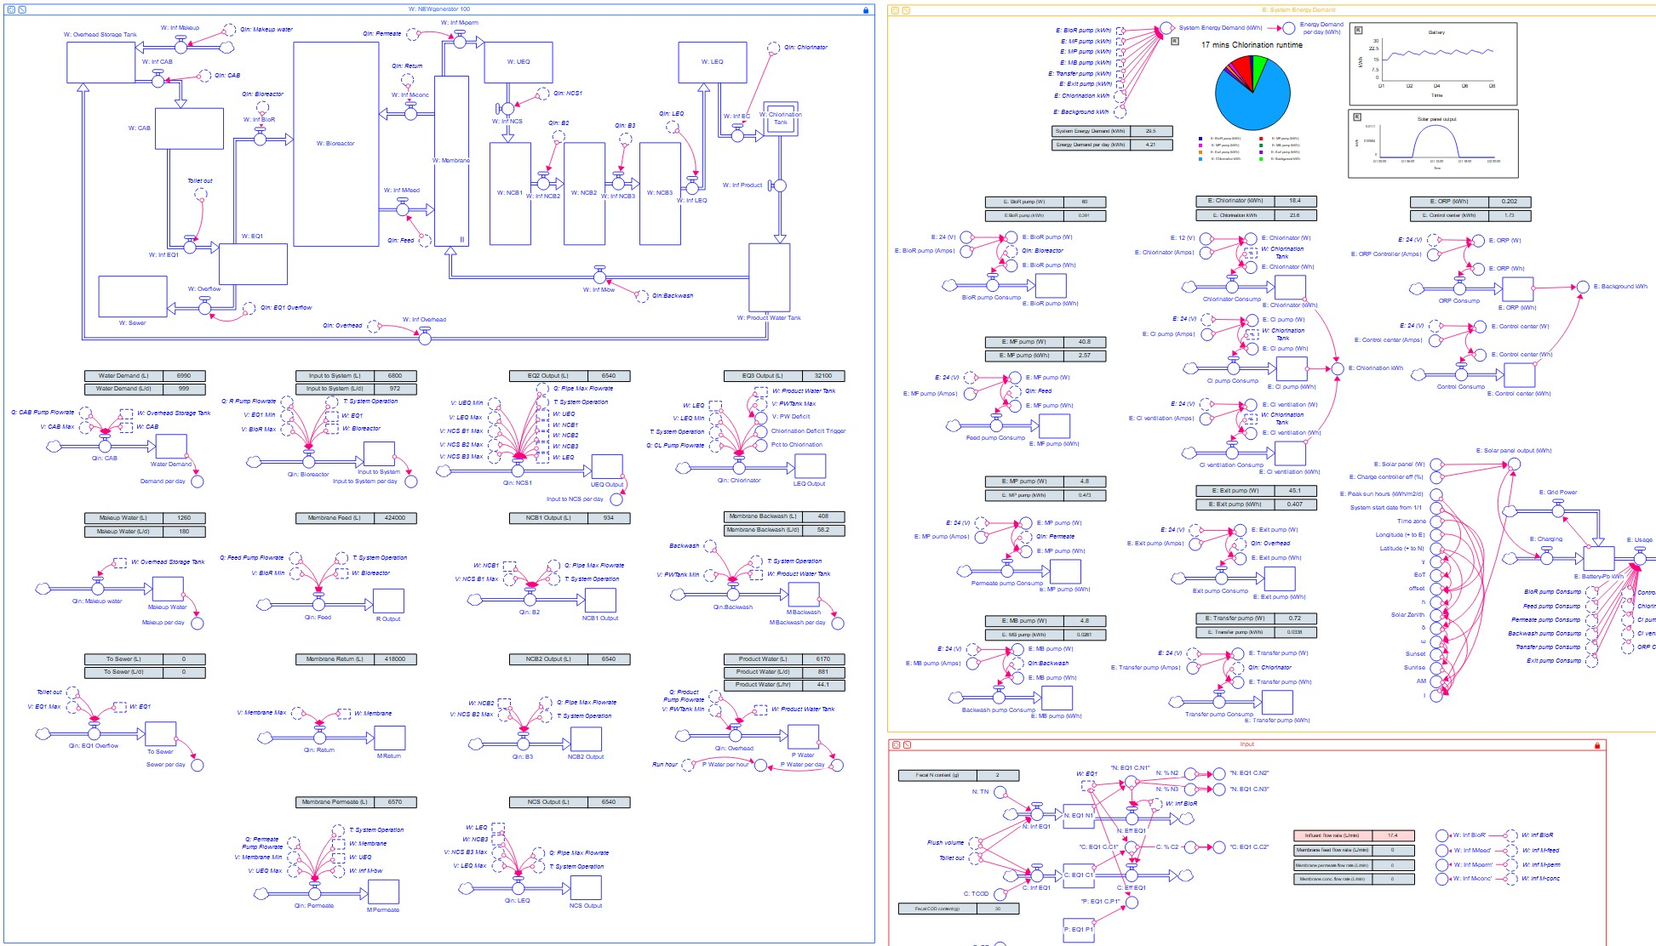
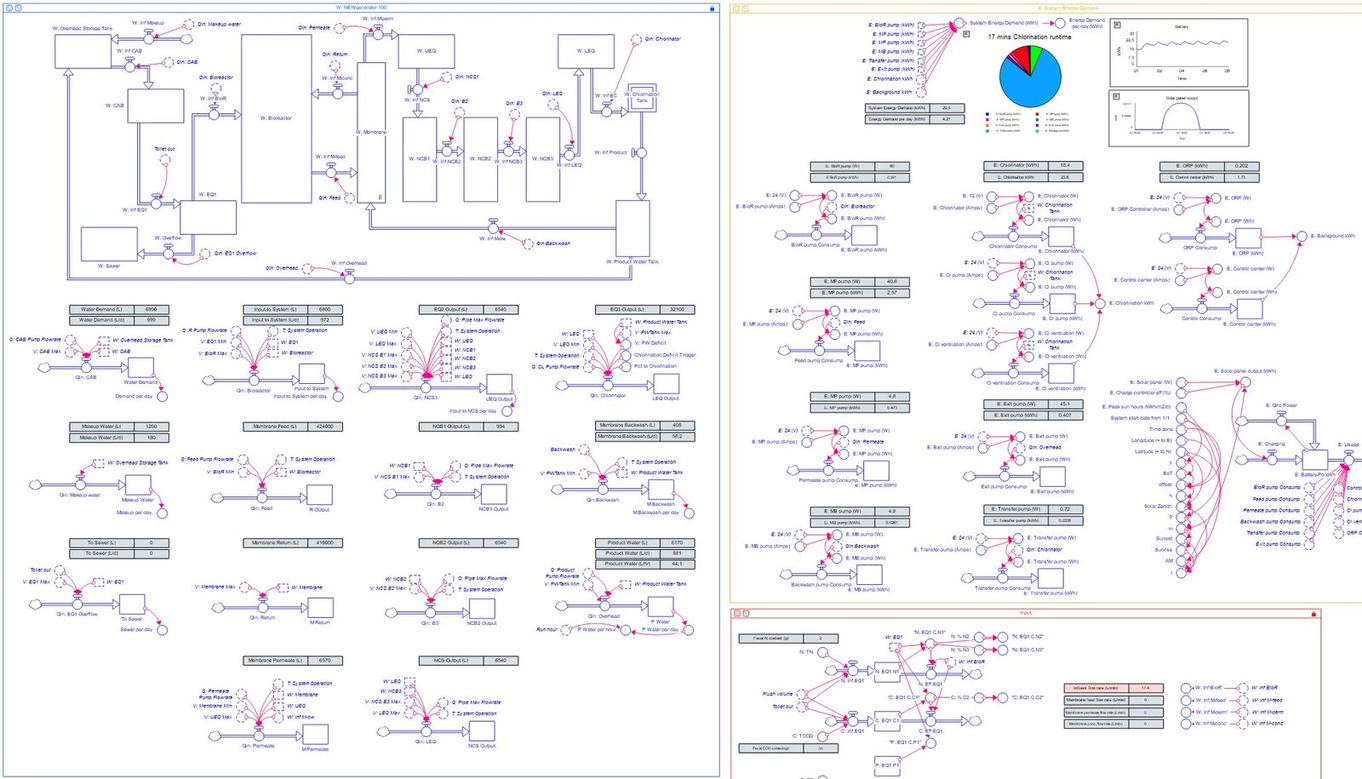
Update homepage: Honu Hub postdoc work, news, image optimization, nav fix
- Home: rewrite About Me for current postdoc (Honu Hub) and PhD work
- Research: add Honu Hub section with photo; ground ML text in paper results
- News: add Aug 2024 postdoc start, Honu Hub feature, Dec 2025 paper
- Degree name: Environmental Engineering throughout
- Publications: mark VeriXiv preprint, fix journal capitalization
- Rename Twitter link to X (Font Awesome 6.5.1)
- Compress images (~15 MB to ~1.7 MB) and load them via relative paths
- Fix active-page highlight in navigation

Claude-Session: https://claude.ai/code/session_01TAbFmTHqS2GZAGv8WWzyr7

diff --git a/Research/index.html b/Research/index.html
@@ -7,7 +7,7 @@
     <meta name="description" content="Research by Hsiang-Yang (Gary) Shyu — onsite wastewater treatment, nutrient management, system dynamics modeling, and machine learning for water quality.">
     <title>Research | Hsiang-Yang (Gary) Shyu</title>
     <link rel="stylesheet" href="../styles.css">
-    <link rel="stylesheet" href="https://cdnjs.cloudflare.com/ajax/libs/font-awesome/6.4.0/css/all.min.css">
+    <link rel="stylesheet" href="https://cdnjs.cloudflare.com/ajax/libs/font-awesome/6.5.1/css/all.min.css">
     <link rel="stylesheet" href="https://cdn.jsdelivr.net/gh/jpswalsh/academicons/css/academicons.min.css">
 </head>
 
@@ -30,7 +30,7 @@
         <main>
             <aside class="left-side">
                 <div class="profile-card">
-                    <img src="https://raw.githubusercontent.com/gary830529/Homepage/main/Figures/headshot2.jpg" alt="Hsiang-Yang Gary Shyu Profile Photo" class="profile-pic">
+                    <img src="../Figures/headshot2.jpg" alt="Hsiang-Yang Gary Shyu Profile Photo" class="profile-pic">
                     <h3>Postdoctoral Researcher</h3>
                     <p>USF Civil &amp; Environmental Engineering</p>
 
@@ -42,7 +42,7 @@
                             <li><i class="fab fa-linkedin" style="color: #0077B5"></i><a href="https://www.linkedin.com/in/hsiangyang-888641158" target="_blank" rel="noopener noreferrer">LinkedIn</a></li>
                             <li><i class="ai ai-google-scholar-square" style="color: #4285F4"></i><a href="https://scholar.google.com/citations?user=e8Inw1wAAAAJ&hl=en" target="_blank" rel="noopener noreferrer">Google Scholar</a></li>
                             <li><i class="fab fa-github" style="color: #6cc644"></i><a href="https://github.com/gary830529" target="_blank" rel="noopener noreferrer">GitHub</a></li>
-                            <li><i class="fab fa-twitter" style="color: #00acee"></i><a href="https://twitter.com/GaryShyu0529" target="_blank" rel="noopener noreferrer">Twitter</a></li>
+                            <li><i class="fab fa-x-twitter" style="color: #000000"></i><a href="https://x.com/GaryShyu0529" target="_blank" rel="noopener noreferrer">X</a></li>
                         </ul>
                     </address>
                 </div>
@@ -52,7 +52,15 @@
                 <div class="research-container">
 
                     <article class="research-section">
-                        <img src="https://raw.githubusercontent.com/gary830529/Homepage/main/Figures/NG_ToC.jpg" alt="NEWgenerator system diagram">
+                        <img src="../Figures/Honu_Hub.jpg" alt="Honu Hub onsite wastewater recycling system with doors open, showing the treatment tank and control panel">
+                        <div class="content-container">
+                            <h2>Honu Hub: Smart Onsite Water Recycling</h2>
+                            <p>The <strong>Honu Hub</strong> is a solar-powered, off-grid onsite wastewater recycling system with nitrogen removal, automation, and remote monitoring, designed for island communities. I built its data logging, remote monitoring, and control system: a <strong>Raspberry Pi</strong> logs data and serves as a custom HMI for the <strong>PLC</strong>, with secure real-time remote access for troubleshooting. Monitoring transmembrane pressure and flux in real time lets us adjust membrane backwash before fouling becomes permanent. I am now integrating machine learning into the system's design and monitoring. <a href="https://www.usf.edu/engineering/news/2025/usf-engineering-research-team-tackles-americas-hidden-sanitation-crisis-with-breakthrough-wastewater-technology.aspx" target="_blank" rel="noopener noreferrer">USF Engineering story</a>.</p>
+                        </div>
+                    </article>
+
+                    <article class="research-section">
+                        <img src="../Figures/NG_ToC.jpg" alt="NEWgenerator system diagram">
                         <div class="content-container">
                             <h2>Onsite Wastewater Treatment &amp; Sanitation</h2>
                             <p>The <strong>NEWgenerator™</strong> is an advanced non-sewered sanitation system featuring an anaerobic membrane bioreactor (AnMBR), nutrient capture, and electrochlorination. Our field testing in Durban, South Africa, proved its resilience and efficacy in resource recovery, turning high-strength wastewater into a source for non-potable reuse.</p>
@@ -60,7 +68,7 @@
                     </article>
 
                     <article class="research-section">
-                        <img src="https://raw.githubusercontent.com/gary830529/Homepage/main/Figures/Z_Pic.jpg" alt="Zeolite nutrient recovery process">
+                        <img src="../Figures/Z_Pic.jpg" alt="Zeolite nutrient recovery process">
                         <div class="content-container">
                             <h2>Sustainable Nutrients Management</h2>
                             <p>My research explores nitrogen and phosphorus recovery using modified clinoptilolite zeolite. By optimizing zeolite regeneration in the field, we transition wastewater treatment from a disposal problem to a circular economy solution, creating nutrient-rich fertilizers for local use.</p>
@@ -68,7 +76,7 @@
                     </article>
 
                     <article class="research-section">
-                        <img src="https://raw.githubusercontent.com/gary830529/Homepage/main/Figures/STELLA_Pic.jpg" alt="System Dynamics Model interface">
+                        <img src="../Figures/STELLA_Pic.jpg" alt="System Dynamics Model interface">
                         <div class="content-container">
                             <h2>System Dynamics Modeling</h2>
                             <p>Using <strong>Stella® Architect</strong>, I develop intricate models to optimize the water-energy-nutrient nexus within the NEWgenerator™. These scenario-based evaluations are critical for scaling decentralized sanitation systems across diverse global environments.</p>
@@ -76,10 +84,10 @@
                     </article>
 
                     <article class="research-section">
-                        <img src="https://raw.githubusercontent.com/gary830529/Homepage/main/Figures/ML_ToC.jpg" alt="Machine learning water quality prediction graph">
+                        <img src="../Figures/ML_ToC.jpg" alt="Machine learning water quality prediction graph">
                         <div class="content-container">
                             <h2>Machine Learning for OWTS Monitoring</h2>
-                            <p>I leverage machine learning to develop <strong>soft sensors</strong> for real-time water quality assessment. By training models on in-line sensor data, we can predict complex parameters instantly, ensuring environmental compliance without the lag of traditional laboratory analysis.</p>
+                            <p>I develop machine learning <strong>soft sensors</strong> for real-time water quality assessment. Trained on two years of field data from in-line sensors, our models predicted COD (R² = 0.96) and TSS (R² = 0.99), reducing reliance on slow laboratory analysis. <a href="https://doi.org/10.1021/acsenvironau.2c00072" target="_blank" rel="noopener noreferrer">Paper</a> · <a href="https://github.com/gary830529/MLsensor" target="_blank" rel="noopener noreferrer">Code</a>.</p>
                         </div>
                     </article>
 
@@ -92,9 +100,9 @@
         </footer>
     </div>
     <script>
-        const path = window.location.pathname;
+        const here = location.pathname.replace(/index\.html$/, '');
         document.querySelectorAll('nav a').forEach(a => {
-            if (a.getAttribute('href') === path) a.classList.add('active');
+            if (new URL(a.href, location.href).pathname === here) a.classList.add('active');
         });
     </script>
 </body>

diff --git a/index.html b/index.html
@@ -7,7 +7,7 @@
     <meta name="description" content="Hsiang-Yang (Gary) Shyu, Ph.D. — Postdoctoral Researcher at USF studying wastewater treatment, nutrient recovery, and machine learning for water quality monitoring.">
     <title>Hsiang-Yang (Gary) Shyu | USF Researcher</title>
     <link rel="stylesheet" href="styles.css">
-    <link rel="stylesheet" href="https://cdnjs.cloudflare.com/ajax/libs/font-awesome/6.4.0/css/all.min.css">
+    <link rel="stylesheet" href="https://cdnjs.cloudflare.com/ajax/libs/font-awesome/6.5.1/css/all.min.css">
     <link rel="stylesheet" href="https://cdn.jsdelivr.net/gh/jpswalsh/academicons/css/academicons.min.css">
 </head>
 
@@ -30,7 +30,7 @@
         <main>
             <aside class="left-side">
                 <div class="profile-card">
-                    <img src="https://raw.githubusercontent.com/gary830529/Homepage/main/Figures/headshot2.jpg" alt="Hsiang-Yang Gary Shyu Profile Photo" class="profile-pic">
+                    <img src="Figures/headshot2.jpg" alt="Hsiang-Yang Gary Shyu Profile Photo" class="profile-pic">
                     <h3>Postdoctoral Researcher</h3>
                     <p>USF Civil &amp; Environmental Engineering</p>
 
@@ -60,8 +60,8 @@
                                 <a href="https://github.com/gary830529" target="_blank" rel="noopener noreferrer">GitHub</a>
                             </li>
                             <li>
-                                <i class="fab fa-twitter" style="color: #00acee"></i>
-                                <a href="https://twitter.com/GaryShyu0529" target="_blank" rel="noopener noreferrer">Twitter</a>
+                                <i class="fab fa-x-twitter" style="color: #000000"></i>
+                                <a href="https://x.com/GaryShyu0529" target="_blank" rel="noopener noreferrer">X</a>
                             </li>
                         </ul>
                     </address>
@@ -78,17 +78,22 @@
                     </p>
 
                     <p>
-                        Our research focuses on advanced wastewater treatment for non-sewered sanitation. I lead efforts within the
-                        <a href="https://www.youtube.com/watch?v=v5pW_Mqt6dU" target="_blank" rel="noopener noreferrer">NEWgenerator™</a>
-                        project—an innovative system that transforms wastewater into <strong>clean water, nutrients, and energy</strong>.
+                        My work sits at the intersection of <strong>wastewater process engineering</strong> and <strong>machine learning</strong>.
+                        As a postdoc, I contribute to the
+                        <a href="https://gary830529.github.io/Homepage/Research/">Honu Hub</a>, a solar-powered onsite wastewater recycling system,
+                        where I built its data logging, remote monitoring, and control system and am integrating AI into its design and monitoring.
                     </p>
 
                     <p>
-                        My expertise involves membrane-based separation, nutrient recycling adsorbents, and the integration of <strong>machine learning</strong> to develop soft sensors for real-time water quality monitoring.
+                        During my Ph.D., I led the field evaluation of the
+                        <a href="https://www.youtube.com/watch?v=v5pW_Mqt6dU" target="_blank" rel="noopener noreferrer">NEWgenerator™</a>,
+                        a non-sewered sanitation system that recovers <strong>clean water, nutrients, and energy</strong> from wastewater, and developed
+                        machine learning <strong>soft sensors</strong> for real-time water quality monitoring. My expertise also includes membrane-based separation,
+                        nutrient recovery with advanced adsorbents, and dynamic process modeling.
                     </p>
 
                     <p>
-                        I earned my Ph.D. in Civil and Environmental Engineering from USF in 2024. I am honored to be the 14<sup>th</sup> doctoral graduate from the Membrane Biotechnology Lab!
+                        I earned my Ph.D. in Environmental Engineering from USF in 2024. I am honored to be the 14<sup>th</sup> doctoral graduate from the Membrane Biotechnology Lab!
                     </p>
 
                     <p>
@@ -106,11 +111,9 @@
         </footer>
     </div>
     <script>
-        const path = window.location.pathname;
+        const here = location.pathname.replace(/index\.html$/, '');
         document.querySelectorAll('nav a').forEach(a => {
-            if (a.getAttribute('href') === path || (path === '/' && a.getAttribute('href').endsWith('/Homepage/'))) {
-                a.classList.add('active');
-            }
+            if (new URL(a.href, location.href).pathname === here) a.classList.add('active');
         });
     </script>
 </body>

diff --git a/Publications/index.html b/Publications/index.html
@@ -7,7 +7,7 @@
     <meta name="description" content="Publications and conference presentations by Hsiang-Yang (Gary) Shyu — journal articles, dissertations, and selected talks.">
     <title>Publications & Presentations | Hsiang-Yang (Gary) Shyu</title>
     <link rel="stylesheet" href="../styles.css">
-    <link rel="stylesheet" href="https://cdnjs.cloudflare.com/ajax/libs/font-awesome/6.4.0/css/all.min.css">
+    <link rel="stylesheet" href="https://cdnjs.cloudflare.com/ajax/libs/font-awesome/6.5.1/css/all.min.css">
     <link rel="stylesheet" href="https://cdn.jsdelivr.net/gh/jpswalsh/academicons/css/academicons.min.css">
 </head>
 
@@ -30,7 +30,7 @@
         <main>
             <aside class="left-side">
                 <div class="profile-card">
-                    <img src="https://raw.githubusercontent.com/gary830529/Homepage/main/Figures/headshot2.jpg" alt="Hsiang-Yang Gary Shyu Profile Photo" class="profile-pic">
+                    <img src="../Figures/headshot2.jpg" alt="Hsiang-Yang Gary Shyu Profile Photo" class="profile-pic">
                     <h3>Postdoctoral Researcher</h3>
                     <p>USF Civil &amp; Environmental Engineering</p>
 
@@ -42,7 +42,7 @@
                             <li><i class="fab fa-linkedin" style="color: #0077B5"></i><a href="https://www.linkedin.com/in/hsiangyang-888641158" target="_blank" rel="noopener noreferrer">LinkedIn</a></li>
                             <li><i class="ai ai-google-scholar-square" style="color: #4285F4"></i><a href="https://scholar.google.com/citations?user=e8Inw1wAAAAJ&hl=en" target="_blank" rel="noopener noreferrer">Google Scholar</a></li>
                             <li><i class="fab fa-github" style="color: #6cc644"></i><a href="https://github.com/gary830529" target="_blank" rel="noopener noreferrer">GitHub</a></li>
-                            <li><i class="fab fa-twitter" style="color: #00acee"></i><a href="https://twitter.com/GaryShyu0529" target="_blank" rel="noopener noreferrer">Twitter</a></li>
+                            <li><i class="fab fa-x-twitter" style="color: #000000"></i><a href="https://x.com/GaryShyu0529" target="_blank" rel="noopener noreferrer">X</a></li>
                         </ul>
                     </address>
                 </div>
@@ -54,7 +54,7 @@
                     <ol class="pub-list">
                         <li>
                             <strong>Shyu, H.-Y.</strong>, Bair, R. A., Castro, C. J., Xaba, L., Ncube, T., Mutsakatira, E., Cottingham, R. &amp; Yeh, D. H. (2025).
-                            Advanced Non-Sewered sanitation system for onsite water recycling in a South African informal settlement.
+                            Advanced non-sewered sanitation system for onsite water recycling in a South African informal settlement.
                             <em>Water Research X</em>.
                             <a href="https://doi.org/10.1016/j.wroa.2025.100342" class="pub-link" target="_blank"><i class="ai ai-doi"></i> DOI</a>
                         </li>
@@ -62,7 +62,7 @@
                         <li>
                             <strong>Shyu, H.-Y.</strong>, Bair, R. A., Castro, C. J., Xaba, L., Ncube, T., Ndwandwe, B., Mutsakatira, E., Cottingham, R. &amp; Yeh, D. H. (2025).
                             Water demand analysis of community ablution blocks (CABs) at an informal settlement in South Africa.
-                            <em>VeriXiv</em>.
+                            <em>VeriXiv</em> (preprint).
                             <a href="https://doi.org/10.12688/verixiv.1043.1" class="pub-link" target="_blank"><i class="ai ai-doi"></i> DOI</a>
                         </li>
 
@@ -95,7 +95,7 @@
 
                         <li>Castro, C. J., <strong>Shyu, H.-Y.</strong>, Xaba, L., Bair, R., &amp; Yeh, D. H. (2021).
                             Performance and onsite regeneration of natural zeolite for ammonium removal in a field-scale non-sewered sanitation system.
-                            <em>Science of The Total Environment</em>.
+                            <em>Science of the Total Environment</em>.
                             <a href="https://doi.org/10.1016/j.scitotenv.2021.145938" class="pub-link" target="_blank"><i class="ai ai-doi"></i> DOI</a>
                         </li>
 
@@ -177,9 +177,9 @@
         </footer>
     </div>
     <script>
-        const path = window.location.pathname;
+        const here = location.pathname.replace(/index\.html$/, '');
         document.querySelectorAll('nav a').forEach(a => {
-            if (a.getAttribute('href') === path) a.classList.add('active');
+            if (new URL(a.href, location.href).pathname === here) a.classList.add('active');
         });
     </script>
 </body>

diff --git a/News/index.html b/News/index.html
@@ -7,7 +7,7 @@
     <meta name="description" content="Latest news and updates from Hsiang-Yang (Gary) Shyu — awards, milestones, and research highlights.">
     <title>News | Hsiang-Yang (Gary) Shyu</title>
     <link rel="stylesheet" href="../styles.css">
-    <link rel="stylesheet" href="https://cdnjs.cloudflare.com/ajax/libs/font-awesome/6.4.0/css/all.min.css">
+    <link rel="stylesheet" href="https://cdnjs.cloudflare.com/ajax/libs/font-awesome/6.5.1/css/all.min.css">
     <link rel="stylesheet" href="https://cdn.jsdelivr.net/gh/jpswalsh/academicons/css/academicons.min.css">
 </head>
 
@@ -30,7 +30,7 @@
         <main>
             <aside class="left-side">
                 <div class="profile-card">
-                    <img src="https://raw.githubusercontent.com/gary830529/Homepage/main/Figures/headshot2.jpg" alt="Hsiang-Yang Gary Shyu Profile Photo" class="profile-pic">
+                    <img src="../Figures/headshot2.jpg" alt="Hsiang-Yang Gary Shyu Profile Photo" class="profile-pic">
                     <h3>Postdoctoral Researcher</h3>
                     <p>USF Civil &amp; Environmental Engineering</p>
 
@@ -42,7 +42,7 @@
                             <li><i class="fab fa-linkedin" style="color: #0077B5"></i><a href="https://www.linkedin.com/in/hsiangyang-888641158" target="_blank" rel="noopener noreferrer">LinkedIn</a></li>
                             <li><i class="ai ai-google-scholar-square" style="color: #4285F4"></i><a href="https://scholar.google.com/citations?user=e8Inw1wAAAAJ&hl=en" target="_blank" rel="noopener noreferrer">Google Scholar</a></li>
                             <li><i class="fab fa-github" style="color: #6cc644"></i><a href="https://github.com/gary830529" target="_blank" rel="noopener noreferrer">GitHub</a></li>
-                            <li><i class="fab fa-twitter" style="color: #00acee"></i><a href="https://twitter.com/GaryShyu0529" target="_blank" rel="noopener noreferrer">Twitter</a></li>
+                            <li><i class="fab fa-x-twitter" style="color: #000000"></i><a href="https://x.com/GaryShyu0529" target="_blank" rel="noopener noreferrer">X</a></li>
                         </ul>
                     </address>
                 </div>
@@ -53,8 +53,23 @@
 
                 <div class="news-container">
                     <div class="news-item">
+                        <span class="news-date">December 2025</span>
+                        <p>📄 New paper published in <strong><em>Water Research X</em></strong>: "Advanced non-sewered sanitation system for onsite water recycling in a South African informal settlement." <a href="https://doi.org/10.1016/j.wroa.2025.100342" target="_blank" rel="noopener noreferrer">Read it here</a>.</p>
+                    </div>
+
+                    <div class="news-item">
+                        <span class="news-date">2025</span>
+                        <p>🐢 Our <strong>Honu Hub</strong> onsite wastewater recycling system was featured by USF Engineering. I built its remote monitoring and control system and am integrating machine learning into its operation. <a href="https://www.usf.edu/engineering/news/2025/usf-engineering-research-team-tackles-americas-hidden-sanitation-crisis-with-breakthrough-wastewater-technology.aspx" target="_blank" rel="noopener noreferrer">Read the story</a>.</p>
+                    </div>
+
+                    <div class="news-item">
+                        <span class="news-date">August 2024</span>
+                        <p>🔬 Started as a <strong>Postdoctoral Research Scholar</strong> in the Membrane Biotechnology Lab at USF.</p>
+                    </div>
+
+                    <div class="news-item">
                         <span class="news-date">July 2024</span>
-                        <p>🎉 <strong>Major Milestone:</strong> Successfully defended my Ph.D. dissertation in Civil and Environmental Engineering at the University of South Florida!</p>
+                        <p>🎉 <strong>Major Milestone:</strong> Successfully defended my Ph.D. dissertation in Environmental Engineering at the University of South Florida!</p>
                     </div>
 
                     <div class="news-item">
@@ -80,9 +95,9 @@
         </footer>
     </div>
     <script>
-        const path = window.location.pathname;
+        const here = location.pathname.replace(/index\.html$/, '');
         document.querySelectorAll('nav a').forEach(a => {
-            if (a.getAttribute('href') === path) a.classList.add('active');
+            if (new URL(a.href, location.href).pathname === here) a.classList.add('active');
         });
     </script>
 </body>

diff --git a/Biography/index.html b/Biography/index.html
@@ -7,7 +7,7 @@
     <meta name="description" content="Biography of Hsiang-Yang (Gary) Shyu — education, teaching experience, and honors.">
     <title>Biography | Hsiang-Yang (Gary) Shyu</title>
     <link rel="stylesheet" href="../styles.css">
-    <link rel="stylesheet" href="https://cdnjs.cloudflare.com/ajax/libs/font-awesome/6.4.0/css/all.min.css">
+    <link rel="stylesheet" href="https://cdnjs.cloudflare.com/ajax/libs/font-awesome/6.5.1/css/all.min.css">
     <link rel="stylesheet" href="https://cdn.jsdelivr.net/gh/jpswalsh/academicons/css/academicons.min.css">
 </head>
 
@@ -30,7 +30,7 @@
         <main>
             <aside class="left-side">
                 <div class="profile-card">
-                    <img src="https://raw.githubusercontent.com/gary830529/Homepage/main/Figures/headshot2.jpg" alt="Hsiang-Yang Gary Shyu Profile Photo" class="profile-pic">
+                    <img src="../Figures/headshot2.jpg" alt="Hsiang-Yang Gary Shyu Profile Photo" class="profile-pic">
                     <h3>Postdoctoral Researcher</h3>
                     <p>USF Civil &amp; Environmental Engineering</p>
 
@@ -42,7 +42,7 @@
                             <li><i class="fab fa-linkedin" style="color: #0077B5"></i><a href="https://www.linkedin.com/in/hsiangyang-888641158" target="_blank" rel="noopener noreferrer">LinkedIn</a></li>
                             <li><i class="ai ai-google-scholar-square" style="color: #4285F4"></i><a href="https://scholar.google.com/citations?user=e8Inw1wAAAAJ&hl=en" target="_blank" rel="noopener noreferrer">Google Scholar</a></li>
                             <li><i class="fab fa-github" style="color: #6cc644"></i><a href="https://github.com/gary830529" target="_blank" rel="noopener noreferrer">GitHub</a></li>
-                            <li><i class="fab fa-twitter" style="color: #00acee"></i><a href="https://twitter.com/GaryShyu0529" target="_blank" rel="noopener noreferrer">Twitter</a></li>
+                            <li><i class="fab fa-x-twitter" style="color: #000000"></i><a href="https://x.com/GaryShyu0529" target="_blank" rel="noopener noreferrer">X</a></li>
                         </ul>
                     </address>
                 </div>
@@ -90,9 +90,9 @@
         </footer>
     </div>
     <script>
-        const path = window.location.pathname;
+        const here = location.pathname.replace(/index\.html$/, '');
         document.querySelectorAll('nav a').forEach(a => {
-            if (a.getAttribute('href') === path) a.classList.add('active');
+            if (new URL(a.href, location.href).pathname === here) a.classList.add('active');
         });
     </script>
 </body>

diff --git a/styles.css b/styles.css
@@ -17,7 +17,7 @@ body {
 /* --- 2. Header & Navigation --- */
 header {
     background-image: linear-gradient(rgba(0,0,0,0.45), rgba(0,0,0,0.45)),
-                      url('https://raw.githubusercontent.com/gary830529/Homepage/main/Figures/background.jpg');
+                      url('Figures/background.jpg');
     background-repeat: no-repeat;
     background-size: cover;
     background-position: center;
